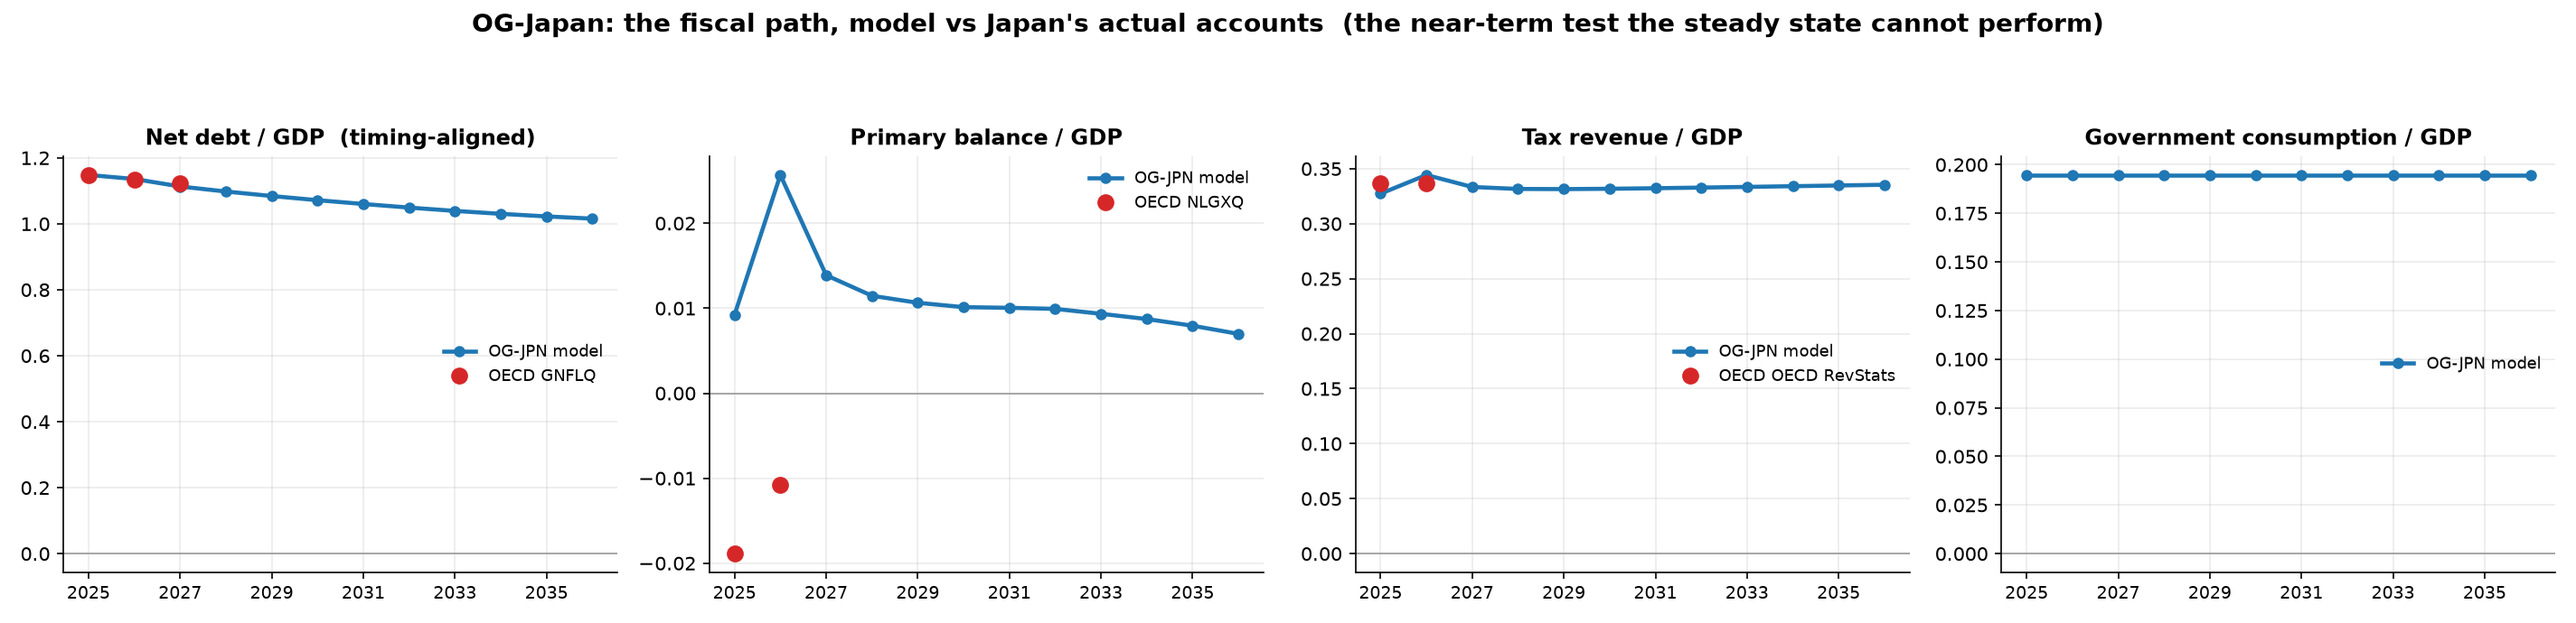
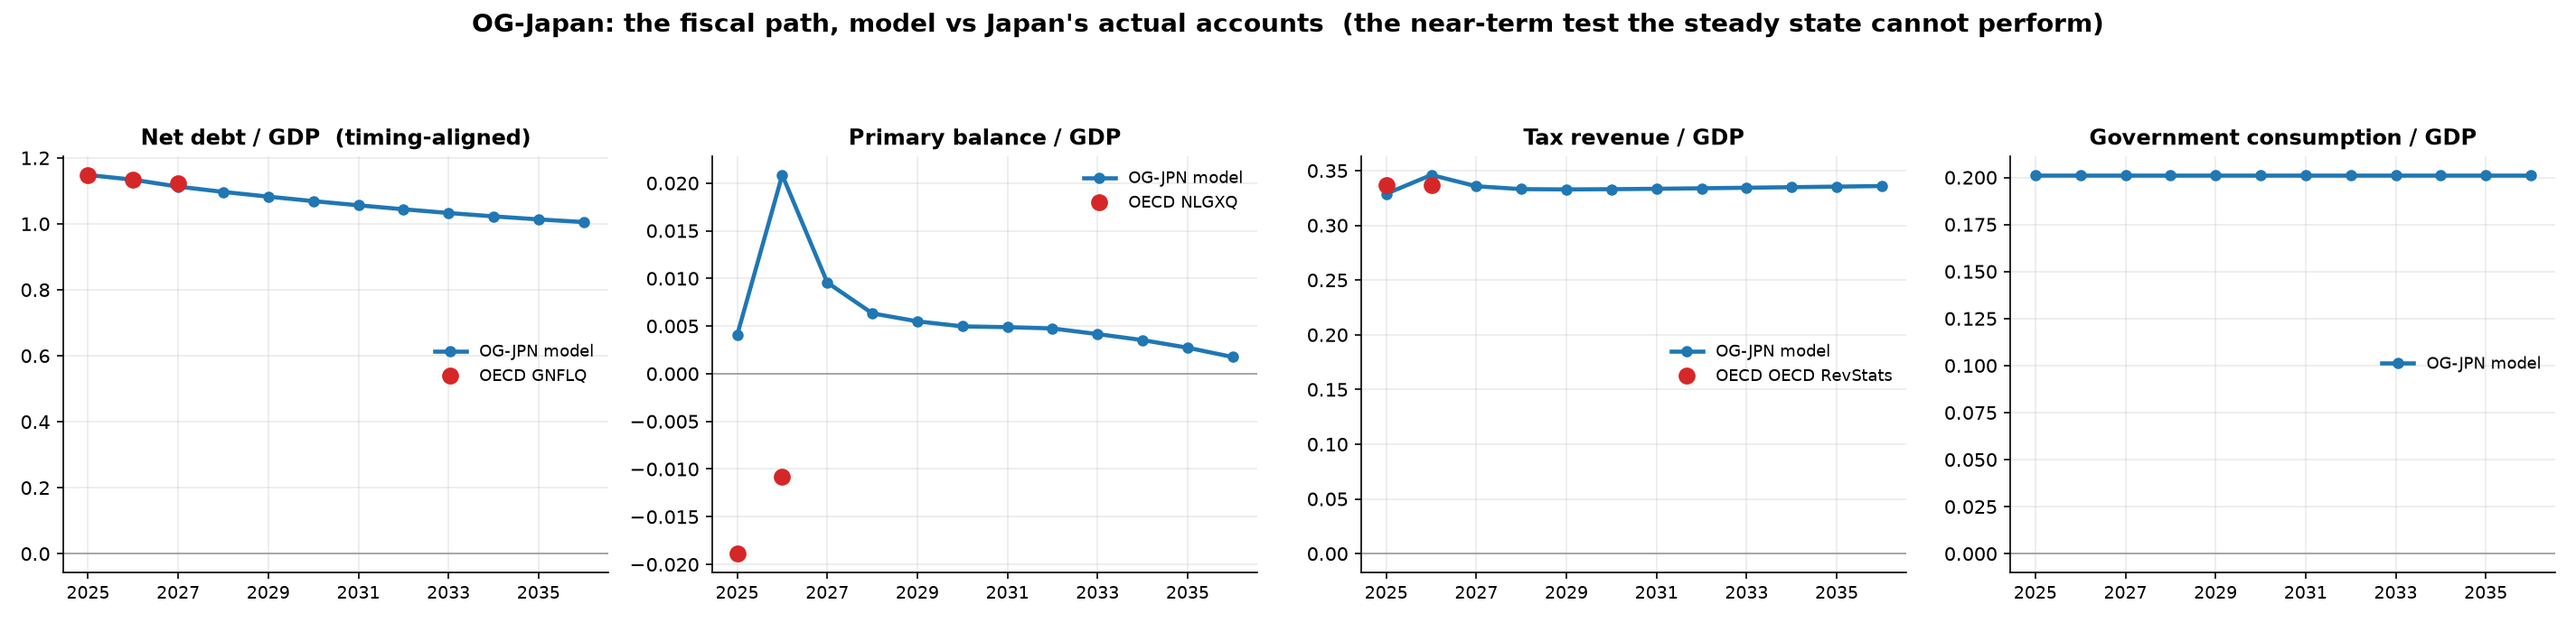
Set the debt anchor to Japan's measured net debt and remove the r_gov floor

diff --git a/ogjpn/rgov_floor.py b/ogjpn/rgov_floor.py
@@ -1,0 +1,87 @@
+"""
+Remove OG-Core's zero floor on the sovereign real rate.
+
+``ogcore.fiscal.get_r_gov`` wraps the sovereign wedge in ``np.maximum(..., 0.00)``:
+
+    r_gov = np.maximum(r_gov_scale*r - r_gov_shift + r_gov_DY*DY + r_gov_DY2*DY**2, 0.00)
+
+For most countries that is harmless. For Japan it silently deletes the single
+most important fact about the public finances. Japan's general government pays
+net interest of roughly 0.43% of GDP on net debt of 114.8% -- about 0.375%
+nominal, or **-0.6% real** against realised inflation. The wedge as calibrated
+returns exactly that: 0.25*0.04391 - 0.017 = -0.6023%. The floor then discards
+it and reports 0.0000.
+
+WHY IT MATTERS, in one line: the debt-stabilising primary balance is
+``pb* = (r_gov - g)/(1 + g) * D/Y``, so clipping r_gov from -0.60% to 0.00%
+raises the primary balance Japan must run by **0.68 percentage points of GDP**.
+That is the difference between a model whose fiscal stance matches Japan's and
+one that demands a primary surplus Japan has never run -- which is precisely
+what ``macro_params`` says this calibration exists to avoid.
+
+IS IT SAFE? Yes, and this was checked against the source rather than assumed.
+``r_gov`` enters the model **linearly everywhere** -- there is no division by
+it, no power of it, no log or sqrt of it anywhere in ogcore. It has exactly two
+consumers:
+
+    debt_service = r_gov * D                        (fiscal.get_D_ss / get_D_t)
+    r_p = (r_gov*D + r_K*K) / (D + K)               (aggregates.get_r_p)
+
+Both are linear, and the r_p denominator ``D + K`` is strictly positive. A
+negative r_gov simply means the government is a net receiver on its debt
+position, and the household portfolio return blends a negative debt leg with a
+positive capital leg.
+
+WHAT IT COSTS. The household Euler pins the PORTFOLIO return r_p, so
+``r = [r_p*(K+D) - r_gov*D] / K``: a more negative r_gov forces the capital leg
+to pay MORE to keep the blend where preferences want it. Higher r means lower
+K/Y. So this trade buys a correct fiscal stance at the price of a slightly worse
+capital-output ratio. Both effects are reported rather than hidden.
+
+This is a monkeypatch of a third-party library and should not be permanent. The
+proper fix is upstream -- see ``docs/UPSTREAM_OGCORE.md``. Enable it explicitly;
+it is never on by default.
+"""
+
+import numpy as np
+
+from ogcore import fiscal
+
+_original = None
+
+
+def enable():
+    """Patch out the zero floor. Returns True if newly applied."""
+    global _original
+    if _original is not None:
+        return False
+    _original = fiscal.get_r_gov
+
+    def get_r_gov_unfloored(r, DY_ratio, p, method, t=None):
+        if method == "scalar":
+            return (
+                p.r_gov_scale[t] * r
+                - p.r_gov_shift[t]
+                + p.r_gov_DY * DY_ratio
+                + p.r_gov_DY2 * DY_ratio**2
+            )
+        return (
+            p.r_gov_scale[: p.T] * r[: p.T]
+            - p.r_gov_shift[: p.T]
+            + p.r_gov_DY * DY_ratio[: p.T]
+            + p.r_gov_DY2 * DY_ratio[: p.T] ** 2
+        )
+
+    fiscal.get_r_gov = get_r_gov_unfloored
+    print("r_gov zero floor REMOVED (ogjpn/rgov_floor.py)")
+    return True
+
+
+def disable():
+    """Restore ogcore's floored version."""
+    global _original
+    if _original is None:
+        return False
+    fiscal.get_r_gov = _original
+    _original = None
+    return True

diff --git a/ogjpn/macro_params.py b/ogjpn/macro_params.py
@@ -191,7 +191,7 @@ def get_macro_params():
     # revaluation as permanent. Japan's own fiscal target is to stabilise and
     # then reduce the debt ratio, which this represents.
     # -----------------------------------------------------------------------
-    macro_parameters["debt_ratio_ss"] = 1.0
+    macro_parameters["debt_ratio_ss"] = 1.148
 
     # -----------------------------------------------------------------------
     # Foreign-held share of government debt.
@@ -273,8 +273,12 @@ def get_macro_params():
     # (~1.4 for Japan) gives a lower bound near 12%. Conversely, foreign
     # holdings of CORPORATE debt are also claims on domestic capital in a
     # one-asset model, which pushes the upper bound to roughly 20%. The band is
-    # 12-20%; zeta_K = 0.70 solves to 16.7%, essentially on the central
-    # market-value estimate.
+    # 12-20%; zeta_K = 0.534 solves to 16.4%, on the central market-value
+    # estimate. (It was 0.70 when debt_ratio_ss was 1.0: a higher debt anchor
+    # raises domestically-held debt D_d, which squeezes K_d = B - D_d and lets
+    # foreign capital fill more, so the same K_f/K needs less openness. This is
+    # the family's "re-validate zeta_K after ANY change that moves domestic
+    # saving" rule -- a debt-anchor change counts.)
     #
     # zeta_K is IDENTIFIED by K_f/K, so it is set there and not pushed further
     # to chase K/Y. Openness of 0.78 would close more of the K/Y gap (73% vs
@@ -299,7 +303,7 @@ def get_macro_params():
     # zeta_K gives K/Y = 3.81 and K_f/K = 27%. Source it before using this
     # calibration for anything that turns on the level of r.
     # -----------------------------------------------------------------------
-    macro_parameters["zeta_K"] = [0.70]
+    macro_parameters["zeta_K"] = [0.534]
 
     # -----------------------------------------------------------------------
     # Government spending shares.
@@ -370,7 +374,15 @@ def get_macro_params():
     # and omitting them is why an earlier pass set alpha_G 0.63pp too high:
     #
     #   alpha_G + alpha_T + alpha_I + pensions/Y = revenue/Y - pb*
-    #   0.1947  + 0.025   + 0.03    + 0.0930     = 0.34270 = 0.3369 - (-0.00575)
+    #   0.2013  + 0.025   + 0.03    + 0.0930     = 0.34930 = 0.3369 - (-0.0124)
+    #
+    # Note what this says. With the sovereign rate at its TRUE -0.51% (the
+    # ogcore floor removed, see ogjpn/rgov_floor.py) and the debt anchor at
+    # Japan's MEASURED 1.148 rather than a chosen 1.0, the identity-consistent
+    # government consumption is 0.2013 -- against a World Bank observed 0.2010.
+    # The "embedded consolidation gap" closes to essentially zero. Under the
+    # floored rate and the 1.0 anchor it was 0.63pp of GDP. That is a strong
+    # out-of-sample check: nothing in the calibration targets G/Y.
     #
     # The SS closure hides the error -- it forces G to the consistent level, so
     # the steady state solved fine at alpha_G = 0.201 and simply reported
@@ -378,7 +390,7 @@ def get_macro_params():
     # the first tG1 periods, so the old value over-spent 0.63pp of GDP a year
     # before the closure corrected it.
     # -----------------------------------------------------------------------
-    macro_parameters["alpha_G"] = [0.1947]
+    macro_parameters["alpha_G"] = [0.2013]
     macro_parameters["alpha_T"] = [0.025]
     macro_parameters["alpha_I"] = [0.03]
 

diff --git a/tests/test_ogjpn.py b/tests/test_ogjpn.py
@@ -80,7 +80,7 @@ def test_debt_is_calibrated_net_not_gross():
 def test_ss_debt_target_is_chosen_not_inherited():
     """OG-Core's default debt_ratio_ss is 2.0; leaving it is a silent choice."""
     m = macro_params.get_macro_params()
-    assert m["debt_ratio_ss"] == pytest.approx(1.0)
+    assert m["debt_ratio_ss"] == pytest.approx(1.148)
     assert m["debt_ratio_ss"] != 2.0
 
 
@@ -167,7 +167,7 @@ def test_consumption_tax_is_effective_not_statutory():
     Japan's indirect-tax revenue in the model is 0.0682 / 0.627 = 10.9%.
     """
     t = tax_params.get_tax_params()
-    assert t["tau_c"] == [[pytest.approx(0.12814)]]
+    assert t["tau_c"] == [[pytest.approx(0.12763)]]
     assert t["tau_c"][0][0] != 0.10, "statutory rate is not the model input"
 
 
@@ -180,7 +180,7 @@ def test_cit_adjustment_factor_is_set():
     t = tax_params.get_tax_params()
     assert "adjustment_factor_for_cit_receipts" in t
     assert t["adjustment_factor_for_cit_receipts"][0] > 0.309
-    assert t["adjustment_factor_for_cit_receipts"][0] == pytest.approx(0.869, abs=1e-3)
+    assert t["adjustment_factor_for_cit_receipts"][0] == pytest.approx(0.856, abs=1e-3)
 
 
 def test_income_tax_is_not_the_us_functions():
@@ -487,7 +487,7 @@ def test_gs_scale_matches_the_income_units():
     income units it silently re-prices the whole income tax.
     """
     t = tax_params.get_tax_params()
-    assert t["etr_params"][0][0][2] == pytest.approx(3.675e-10, rel=1e-3)
+    assert t["etr_params"][0][0][2] == pytest.approx(3.668e-10, rel=1e-3)
 
 
 def test_solver_seeds_are_left_to_the_warm_start():

diff --git a/ogjpn/tax_params.py b/ogjpn/tax_params.py
@@ -97,7 +97,7 @@ def get_tax_params():
     # 0.1087 (which lands at 0.0702 once the pension tier is added back). Revenue is the moment worth hitting: it is what the government
     # actually collects.
     # -----------------------------------------------------------------------
-    tax_parameters["tau_c"] = [[0.12814]]
+    tax_parameters["tau_c"] = [[0.12763]]
 
     # -----------------------------------------------------------------------
     # Corporate income tax.
@@ -119,7 +119,7 @@ def get_tax_params():
     # Table value and enlarged the capital-income base.
     # -----------------------------------------------------------------------
     tax_parameters["cit_rate"] = [[0.2974]]
-    tax_parameters["adjustment_factor_for_cit_receipts"] = [0.869]
+    tax_parameters["adjustment_factor_for_cit_receipts"] = [0.856]
 
     # -----------------------------------------------------------------------
     # Property taxes -> the wealth tax.
@@ -208,7 +208,7 @@ def get_tax_params():
     # ogjpn.pension_params.MEAN_INCOME_MILLIONS_YEN). In plain yen this value
     # would be 3.5e-10; rescaled by 1e6^1.30 it is 0.0221. The effective rate at
     # every income is identical either way -- only the units change.
-    _gs_params = [[[0.55, 1.30, 3.675e-10]]]
+    _gs_params = [[[0.55, 1.30, 3.668e-10]]]
     tax_parameters["etr_params"] = _gs_params
     tax_parameters["mtrx_params"] = _gs_params
     tax_parameters["mtry_params"] = _gs_params

diff --git a/examples/run_ogjpn.py b/examples/run_ogjpn.py
@@ -46,7 +46,7 @@ from ogcore import utils
 from ogcore.execute import runner
 from ogcore.parameters import Specifications
 
-from ogjpn import calibrate, warm_start
+from ogjpn import calibrate, rgov_floor, warm_start
 from ogjpn.constants import COUNTRY_NAME, START_YEAR
 
 CUR_PATH = os.path.abspath(os.path.dirname(__file__))
@@ -96,6 +96,10 @@ def main(baseline_only=False, ss_only=False):
     # cold-starts from constants that are badly wrong for a wealthy, ageing
     # population, and the steady state does not converge — see
     # ogjpn/warm_start.py. Measured: 22 evaluations warm vs >175 cold.
+    # Japan's sovereign real rate is negative and ogcore clips it at zero;
+    # removing the clip is what puts the model's fiscal stance on Japan's.
+    # See ogjpn/rgov_floor.py for why it is arithmetically safe.
+    rgov_floor.enable()
     if warm_start.enable():
         print("Warm start enabled (ogjpn/data/ss_warm_start.pkl).")
     else:

diff --git a/examples/validate_japan.py b/examples/validate_japan.py
@@ -22,7 +22,7 @@ from ogcore.parameters import Specifications
 from ogcore.execute import runner
 from ogcore import utils
 
-from ogjpn import calibrate, warm_start
+from ogjpn import calibrate, rgov_floor, warm_start
 from ogjpn.constants import START_YEAR
 
 
@@ -164,6 +164,7 @@ DASHBOARD = [
 
 
 def main(out="/tmp/ogjpn_validate"):
+    rgov_floor.enable()   # see ogjpn/rgov_floor.py
     warm_start.enable()   # see ogjpn/warm_start.py
     p = Specifications(baseline=True, num_workers=1)
     p.update_specifications({"start_year": START_YEAR})
